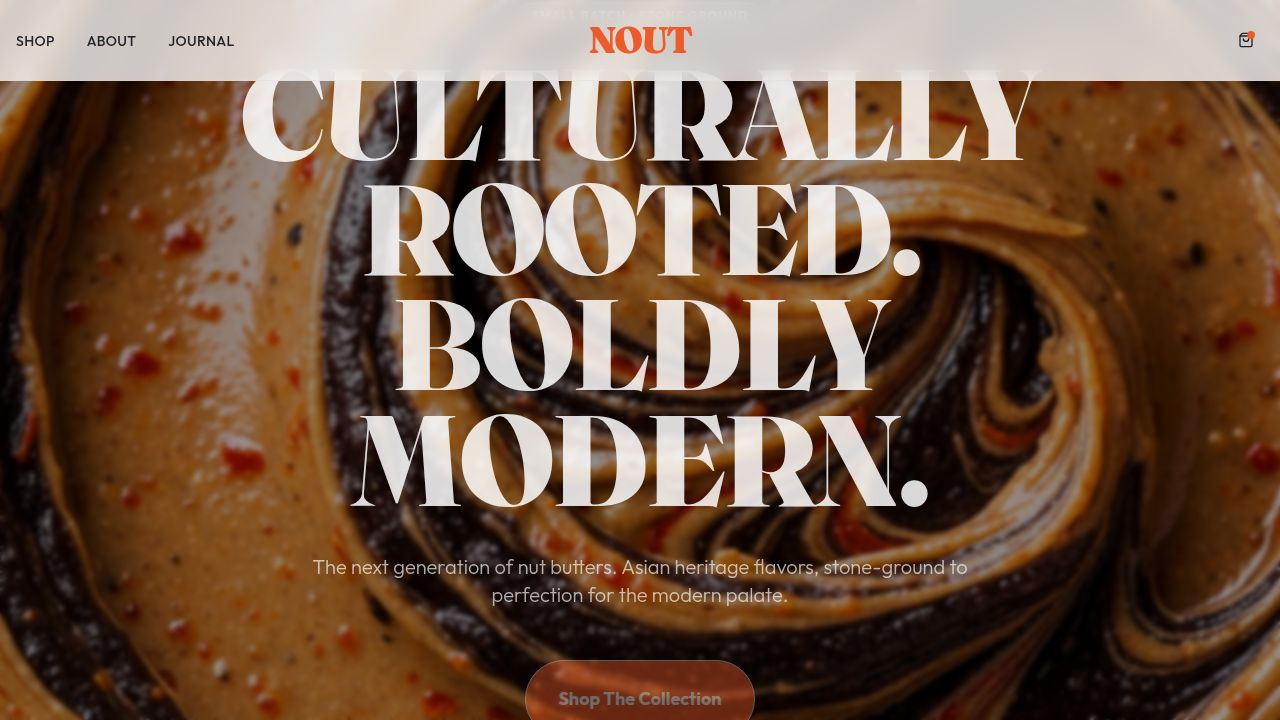
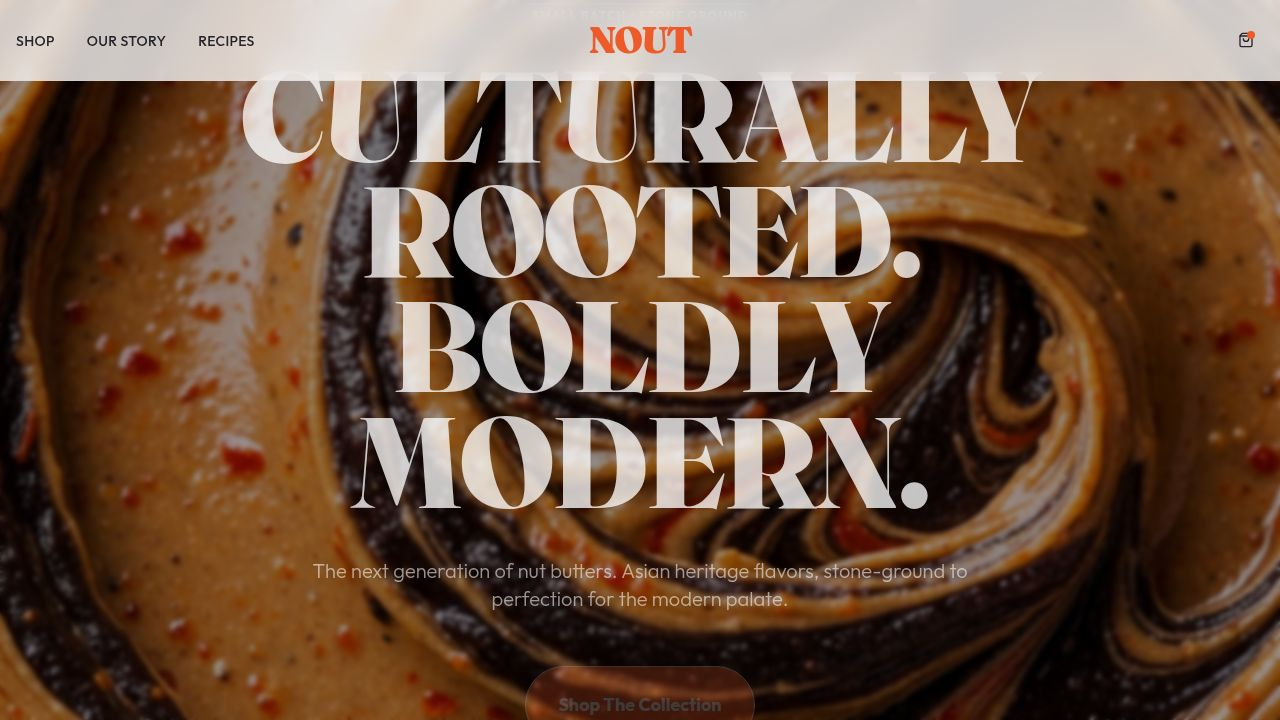
Update navigation labels to reflect updated content sections
Change "About" link to "Our Story" and "Journal" link to "Recipes" in the Navbar component.

Replit-Commit-Author: Agent
Replit-Commit-Session-Id: 43bc16d6-43bc-4b5b-96ff-023a6c1dda3a
Replit-Commit-Checkpoint-Type: full_checkpoint
Replit-Commit-Event-Id: d213563d-1108-45f2-8eb6-991a11506f99
Replit-Commit-Screenshot-Url: https://storage.googleapis.com/screenshot-production-us-central1/055311b1-108f-4117-b3bf-266f656b22da/43bc16d6-43bc-4b5b-96ff-023a6c1dda3a/0JVHqZ2
Replit-Helium-Checkpoint-Created: true

diff --git a/client/src/components/layout/Navbar.tsx b/client/src/components/layout/Navbar.tsx
@@ -10,8 +10,8 @@ export function Navbar() {
 
   const links = [
     { href: "/shop", label: "Shop" },
-    { href: "/about", label: "About" },
-    { href: "/journal", label: "Journal" },
+    { href: "/about", label: "Our Story" },
+    { href: "/journal", label: "Recipes" },
   ];
 
   return (
